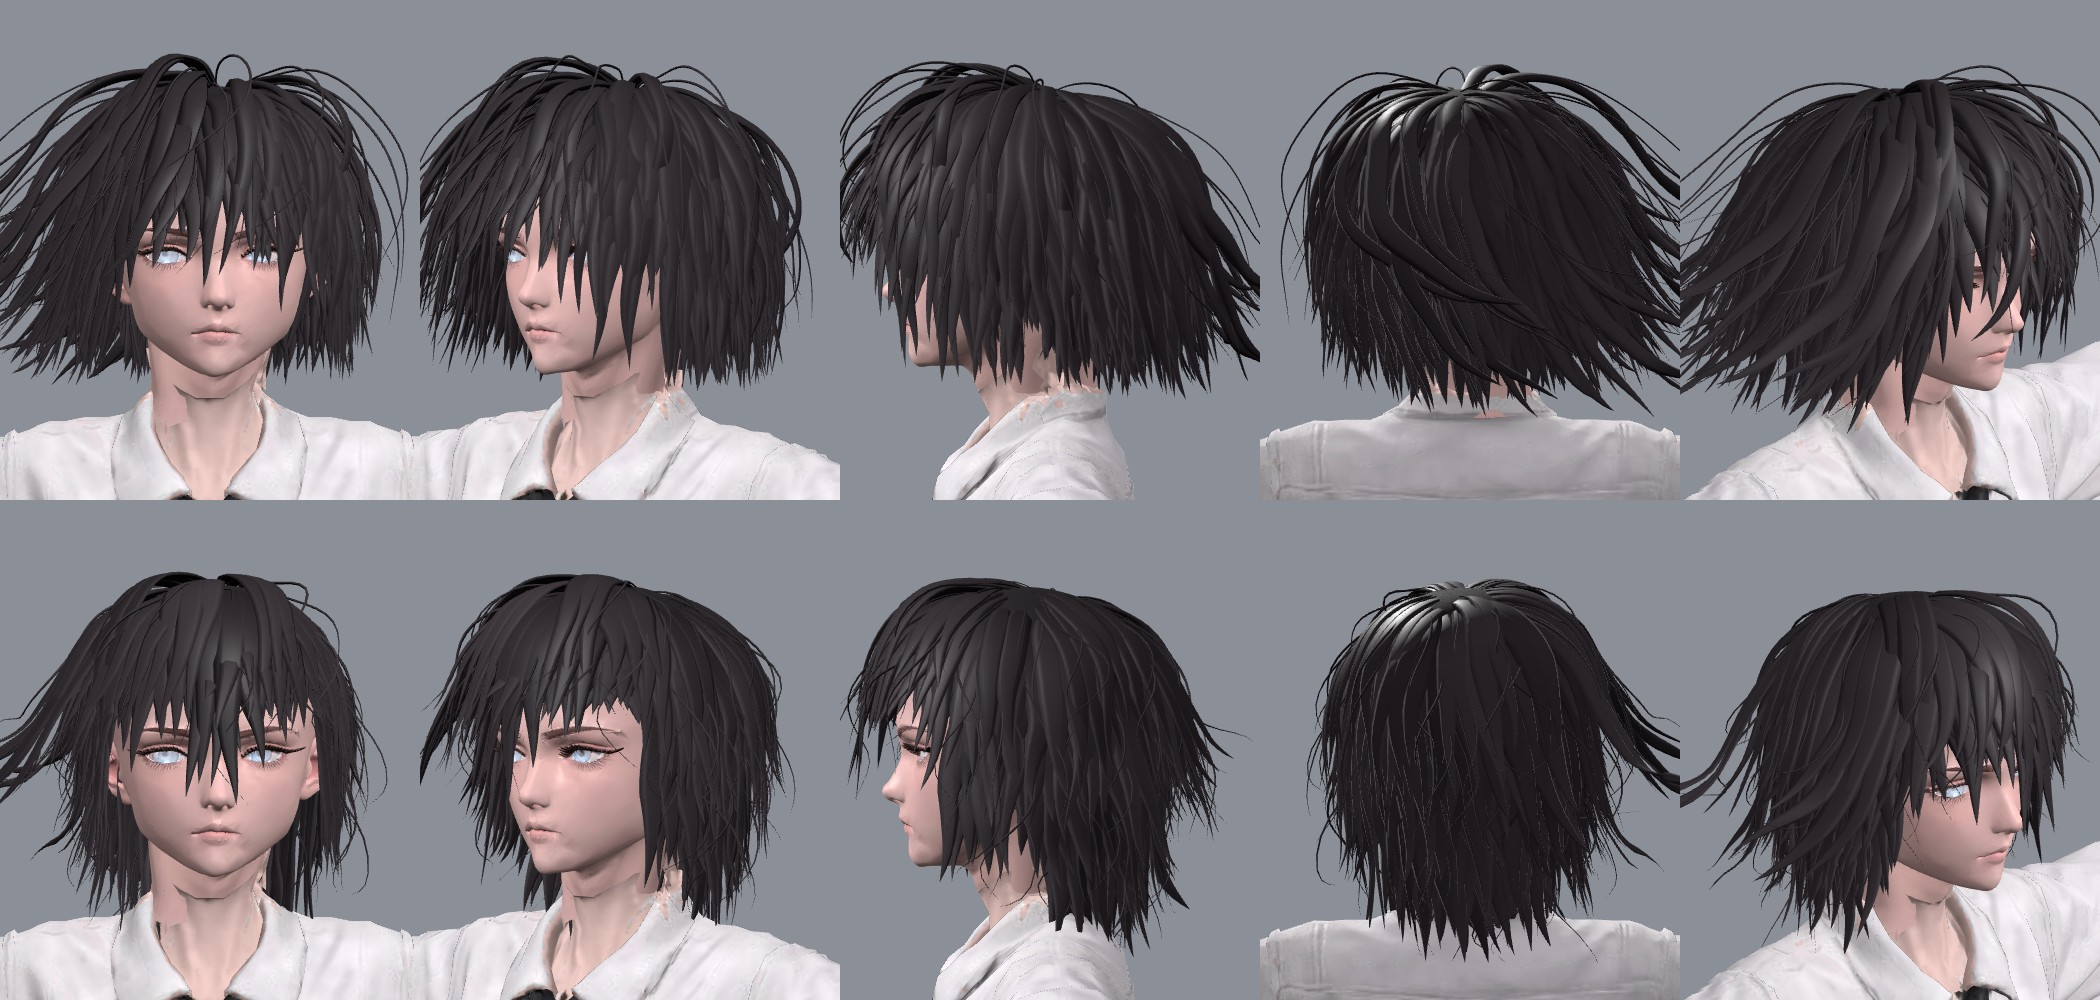
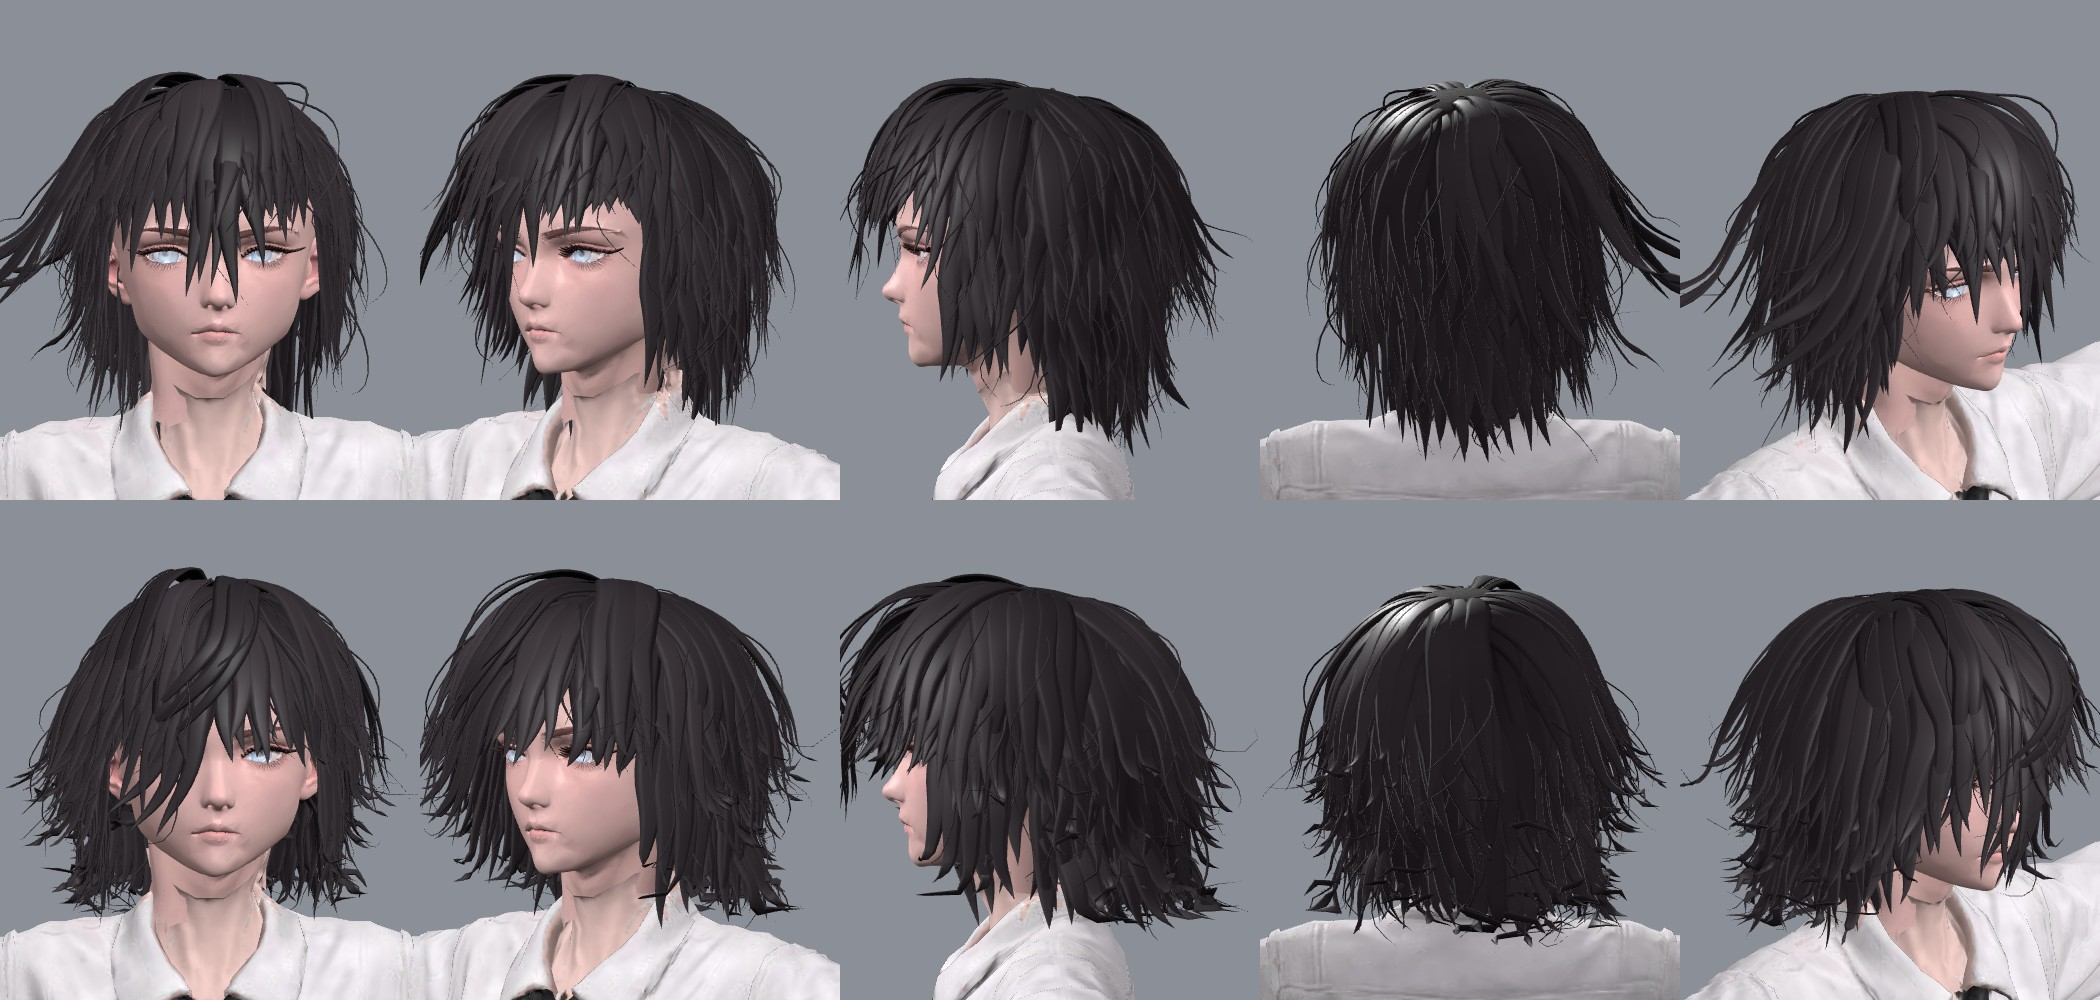
Hair: hooked tips, fuller silhouette, parted fringe
Claude-Session: https://claude.ai/code/session_019DMgo5PsWcgmUS1Nw3L7Hp

diff --git a/character/hair.js b/character/hair.js
@@ -23,7 +23,10 @@ export const HAIR_DEFAULTS = {
   crown: [0.12, 2.1, -1.45],
   wind: [-0.85, 0.12, -0.5],    // blows toward the character's right and back
   windStrength: 0.07,
-  gravity: 0.17,
+  gravity: 0.14,
+  part: 0.3,           // x of the fringe parting: locks sweep away from it to either side
+  volume: 1.1,         // how far the outer layer stands off the skull (1 = on the skull)
+  bell: 0.1,           // how slowly the silhouette narrows below the skull; smaller = fuller bob
   color: [0.024, 0.019, 0.023],      // linear RGB
 };
 
@@ -68,32 +71,45 @@ export function buildHair(THREE, headMesh, frame, options = {}) {
     const n = outward(root), az = Math.atan2(root.x, root.z - C.z);            // 0 = front, ±π = back
     const front = Math.max(0, 1 - Math.abs(az) / 1.0), back = Math.max(0, (Math.abs(az) - 1.9) / 1.2);
     // where the strand stops: fringe at eye level (a few reach the nose), sides at the jaw, back at the nape
-    let endY = front > 0 ? 0.6 - R() * 0.5 - (R() < 0.18 ? 0.6 : 0) : root.y - 1.75 - R() * 0.6 - back * 0.2;     // tiers: higher roots end higher
+    let endY = front > 0 ? 0.6 - R() * 0.4 - (R() < 0.15 ? 0.7 : 0) : Math.max(root.y - 1.45 - R() * 0.5, -1.2 - R() * 0.3 - back * 0.15);     // tiers: higher roots end higher
     if (k.wisp) endY += 0.35;
     const flow = new THREE.Vector3().subVectors(root, CROWN); flow.addScaledVector(n, -flow.dot(n)).normalize();
     // swirl the flow a little so the parting is not a perfect star
     flow.applyAxisAngle(n, (R() - 0.5) * 0.9 + 0.25);
+    // fringe: sweep diagonally away from the parting instead of falling straight down
+    if (front > 0.15) { flow.x += Math.sign(root.x - o.part + (R() - 0.5) * 0.3) * (0.3 + R() * 0.4) * front; flow.addScaledVector(n, -flow.dot(n)).normalize(); }
     const d = flow.clone().addScaledVector(n, 0.04 + k.lift * 1.5).normalize();
     const step = 0.13, pts = [root.clone()], p = root.clone();
     const l0 = new THREE.Vector3().subVectors(root, C).divide(RAD).length();                // the real scalp is not exactly the ellipsoid
-    const l1 = 1.05 + k.lift * 2.5 + 0.06 * Math.min(1, Math.max(0, (root.y - 0.4) / 1.7));       // higher roots lie on top
-    const flick = (R() < 0.75 ? 1 : 0.2) * (0.1 + R() * 0.14) * (front > 0 ? 0.3 : 1);                                 // some tips kick outward
+    const l1 = o.volume - 0.05 + k.lift * 2.5 + 0.07 * Math.min(1, Math.max(0, (root.y - 0.4) / 1.7)) + front * 0.05;       // higher roots lie on top
+    const flick = (R() < 0.8 ? 1 : 0.25) * (0.13 + R() * 0.12) * (front > 0 ? 0.3 : 1), hookSteps = 4 + Math.floor(R() * 3);                                 // some tips kick outward
     const windK = o.windStrength * k.wind, ph1 = R() * 6.28, ph2 = R() * 6.28, curl = k.curl, fr = 0.55 + R() * 0.9;
-    const side = new THREE.Vector3();
-    for (let s = 1; s <= 34; s++) {
+    const side = new THREE.Vector3(), hout = new THREE.Vector3(), e = new THREE.Vector3();
+    let hook = 0;
+    for (let s = 1; s <= 40; s++) {
       const t = s / 20, lift = l0 + (l1 - l0) * Math.min(1, s / 7);
       side.crossVectors(d, outward(p)).normalize();
-      d.y -= o.gravity * (k.wisp ? 0.6 : 1);
-      d.addScaledVector(WIND, windK * t * t);
-      d.addScaledVector(side, Math.sin(s * 0.55 * fr + ph1) * curl);
-      d.addScaledVector(outward(p), Math.sin(s * 0.4 * fr + ph2) * curl * 0.6);
-      if (p.y < endY + 0.5) { d.addScaledVector(outward(p), flick); d.y += flick * 0.55; }
+      hout.set(p.x / RAD.x, 0, (p.z - C.z) / RAD.z).normalize();                 // straight out from the head's axis
+      if (hook) { d.addScaledVector(hout, flick); d.y += flick * 0.6; }           // tip: curl outward and up
+      else {
+        d.y -= o.gravity * (k.wisp ? 0.6 : 1);
+        d.addScaledVector(WIND, windK * t * t);
+        d.addScaledVector(side, Math.sin(s * 0.55 * fr + ph1) * curl);
+        d.addScaledVector(outward(p), Math.sin(s * 0.4 * fr + ph2) * curl * 0.6);
+      }
       d.normalize();
-      const prev = p.clone(); p.addScaledVector(d, step);
-      const q = new THREE.Vector3().subVectors(p, C).divide(RAD), l = q.length();
-      if (l < lift) { q.multiplyScalar(lift / l).multiply(RAD); p.copy(C).add(q); d.subVectors(p, prev).normalize(); }
+      const prev = p.clone(); p.addScaledVector(d, hook ? step * 0.7 : step);
+      // keep outside the skull...
+      e.subVectors(p, C).divide(RAD); const l = e.length();
+      if (l < lift) { e.multiplyScalar(lift / l).multiply(RAD); p.copy(C).add(e); }
+      // ...and below it keep a bell-shaped silhouette instead of collapsing onto the neck
+      if (p.y < C.y && front === 0) {
+        const hr = Math.hypot(p.x / RAD.x, (p.z - C.z) / RAD.z), min = lift * Math.max(0.55, 1 - o.bell * (C.y - p.y));
+        if (hr < min) { p.x *= min / hr; p.z = C.z + (p.z - C.z) * min / hr; }
+      }
+      d.subVectors(p, prev).normalize();
       pts.push(p.clone());
-      if (p.y < endY && s > 5) break;
+      if (hook) { if (++hook > hookSteps) break; } else if (p.y < endY && s > 5) hook = 1;
     }
     return pts;
   }
@@ -138,12 +154,12 @@ export function buildHair(THREE, headMesh, frame, options = {}) {
   const clampOut = (p, lift) => { const e = q.subVectors(p, C).divide(RAD), l = e.length(); if (l < lift) p.copy(C).add(e.multiplyScalar(lift / l).multiply(RAD)); return p; };
   for (const gd of guides) {
     const wild = R() < o.wild;                                                     // some locks get caught by the wind
-    const k = { lift: R() * 0.025 + (wild ? 0.03 : 0), wind: wild ? 2.0 + R() * 1.6 : 0.25 + R() * 0.7, curl: 0.025 + R() * 0.04 };
+    const k = { lift: R() * 0.025 + (wild ? 0.03 : 0), wind: wild ? 2.0 + R() * 1.6 : 0.25 + R() * 0.7, curl: 0.035 + R() * 0.05 };
     const path = grow(gd.root, k), n = path.length, shade = 0.7 + R() * 0.6;
     const width = 0.11 + R() * 0.07, subs = R() < 0.3 ? 2 : 3, l0 = new THREE.Vector3().subVectors(gd.root, C).divide(RAD).length();
     for (let m = 0; m < subs + o.strays; m++) {
       const stray = m >= subs, side = stray ? (R() - 0.5) * 3 : (m - (subs - 1) / 2) * 1.25;   // position across the lock, in widths
-      const len = Math.max(5, Math.round(n * (stray ? 0.75 + R() * 0.35 : 0.8 + R() * 0.2)));
+      const len = Math.max(5, Math.round(n * (stray ? 0.75 + R() * 0.35 : side === 0 ? 1 : 0.82 + R() * 0.18)));
       const ph = R() * 6.28, amp = stray ? 0.1 * (0.5 + R()) : 0.012, pts = [];
       for (let i = 0; i < Math.min(len, n); i++) {
         const t = i / (n - 1), out = outward(path[i]);
@@ -152,7 +168,7 @@ export function buildHair(THREE, headMesh, frame, options = {}) {
         const spread = stray ? 1 + t * 2 : 1 + Math.max(0, t - 0.55) * 1.6;        // sub-locks lie side by side, then part at the tip
         const pnt = path[i].clone().addScaledVector(B, side * width * spread + Math.sin(i * 0.45 + ph) * amp * t * 3);
         pnt.addScaledVector(out, (stray ? 0.03 + Math.cos(i * 0.5 + ph) * amp * t * 2 : -Math.abs(side) * 0.012));
-        pts.push(clampOut(pnt, l0 + (1.03 - l0) * Math.min(1, i / 7)));
+        pts.push(clampOut(pnt, l0 + (o.volume - 0.07 - l0) * Math.min(1, i / 7)));
       }
       if (stray) tube(pts, 0.011 + R() * 0.01, 1, 3, shade * (0.9 + R() * 0.4), R());
       else tube(pts, width * (0.85 + R() * 0.3), 0.2, 6, shade * (0.88 + R() * 0.24), R());

diff --git a/README.md b/README.md
@@ -78,7 +78,7 @@
 - 头的朝向是算出来的：按贴图颜色找到两只眼睛的顶点，取眼睛连线和眼周皮肤的平均法线，得到头的坐标系（`tools/analyse-head.js`），结果写在页面的 `SCANS` 里。
 - 预览：`docs/previews/character.jpg`，两种头的对比在 `docs/previews/head-compare.jpg`。
 - 脖子接缝：扫描头自带的脖子相对头是歪的，会从领口戳出来，所以只保留下巴以下一小段（`NECK_KEEP`），其余用身体自己的脖子；身体脖子和领口内侧贴图上的深色污痕在加载时重绘成肤色。
-- **头发改用代码生成**（`character/hair.js`，默认开启；`?hair=wig` 切回假发模型）。在光头的头皮三角面上采样发根，每绺头发从发旋向外贴着头皮长出，再受重力和侧风影响，用一个近似头骨的椭球做碰撞；另有一层深色头皮盖住发缝。发梢摆动在顶点 shader 里。参照图是用户给的一张目标效果图（乱、蓬、遮眼）。预览：`docs/previews/hair-code.jpg`。第二版按假发模型的结构重做了分组（假发是整块融合网格，拆不出部件，结构是放大渲染后观察的，见 `docs/previews/wig-structure.jpg`）：贴头皮处是一整层壳、发束是宽而扁的发片、每片在发梢分成两三个尖、按发根高度分层叠压、发梢外翘。`hair-code.jpg` 上排是第一版，下排是第二版。发梢外翘和蓬松度还不够。
+- **头发改用代码生成**（`character/hair.js`，默认开启；`?hair=wig` 切回假发模型）。在光头的头皮三角面上采样发根，每绺头发从发旋向外贴着头皮长出，再受重力和侧风影响，用一个近似头骨的椭球做碰撞；另有一层深色头皮盖住发缝。发梢摆动在顶点 shader 里。参照图是用户给的一张目标效果图（乱、蓬、遮眼）。预览：`docs/previews/hair-code.jpg`。第二版按假发模型的结构重做了分组（假发是整块融合网格，拆不出部件，结构是放大渲染后观察的，见 `docs/previews/wig-structure.jpg`）：贴头皮处是一整层壳、发束是宽而扁的发片、每片在发梢分成两三个尖、按发根高度分层叠压、发梢外翘。第三版加了发梢外翘的小钩、头骨以下保持钟形轮廓（不再贴着脖子塌下去）、刘海从分缝向两侧斜扫。`hair-code.jpg` 上排是第二版，下排是第三版。
 - 还没处理：眼睛瞳孔太淡；耳朵上方露出一块头皮；假发还不会动；用户更喜欢 `head` 那个模型的乱发和神态，考虑改用代码生成头发。
 
 1. **减面和压缩**。把高面数模型减到网页能加载的规模，贴图压到 2K，输出到开发分支（例如 `assets/`）。
